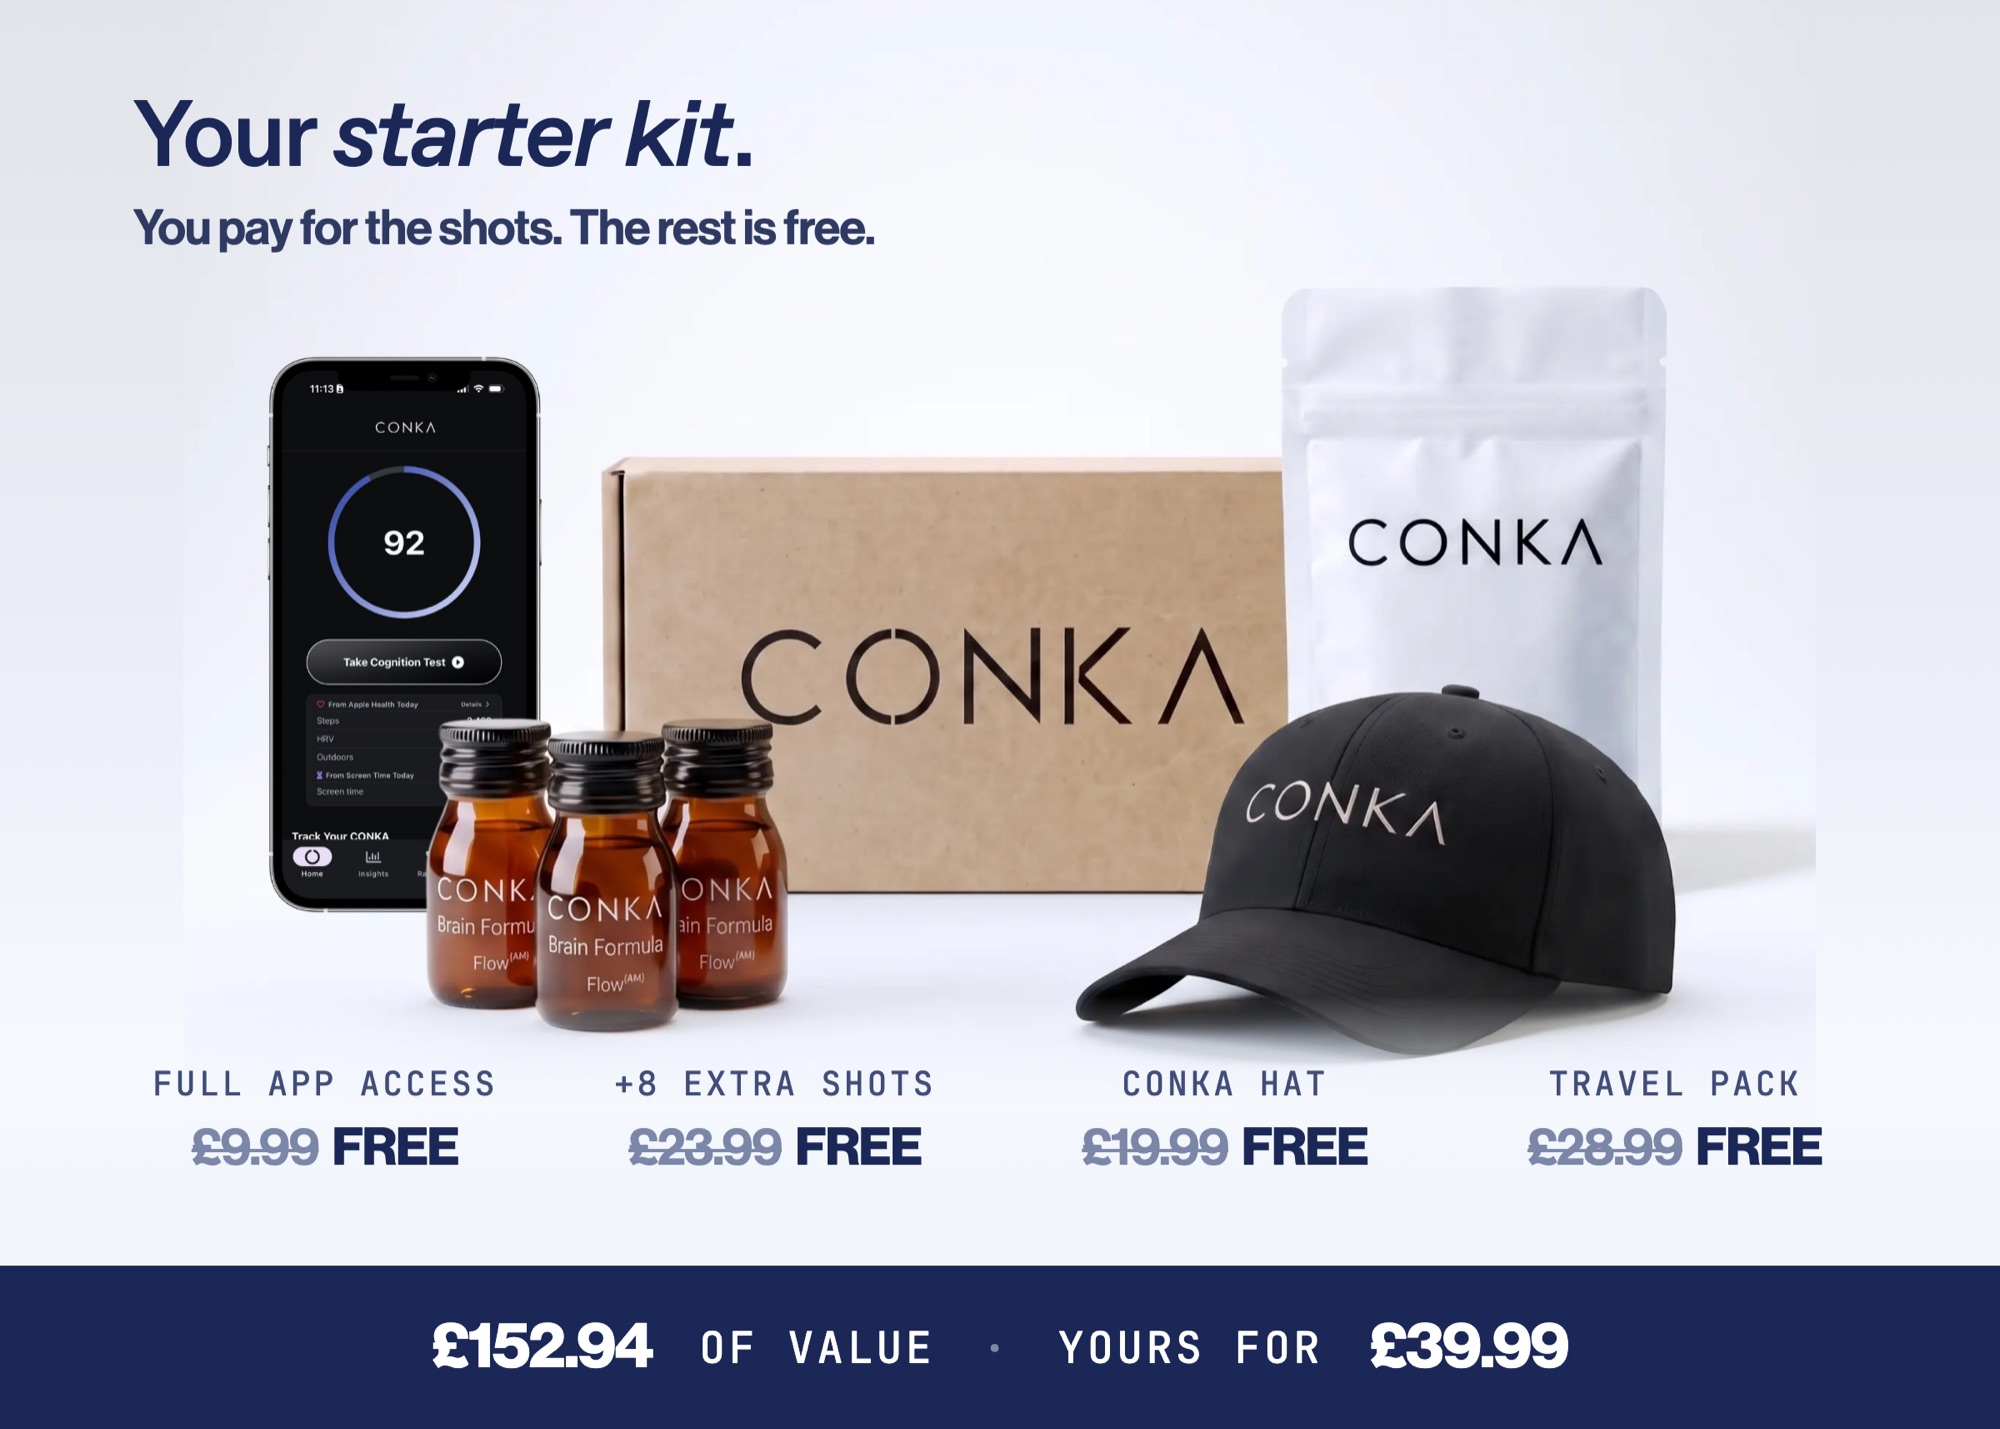
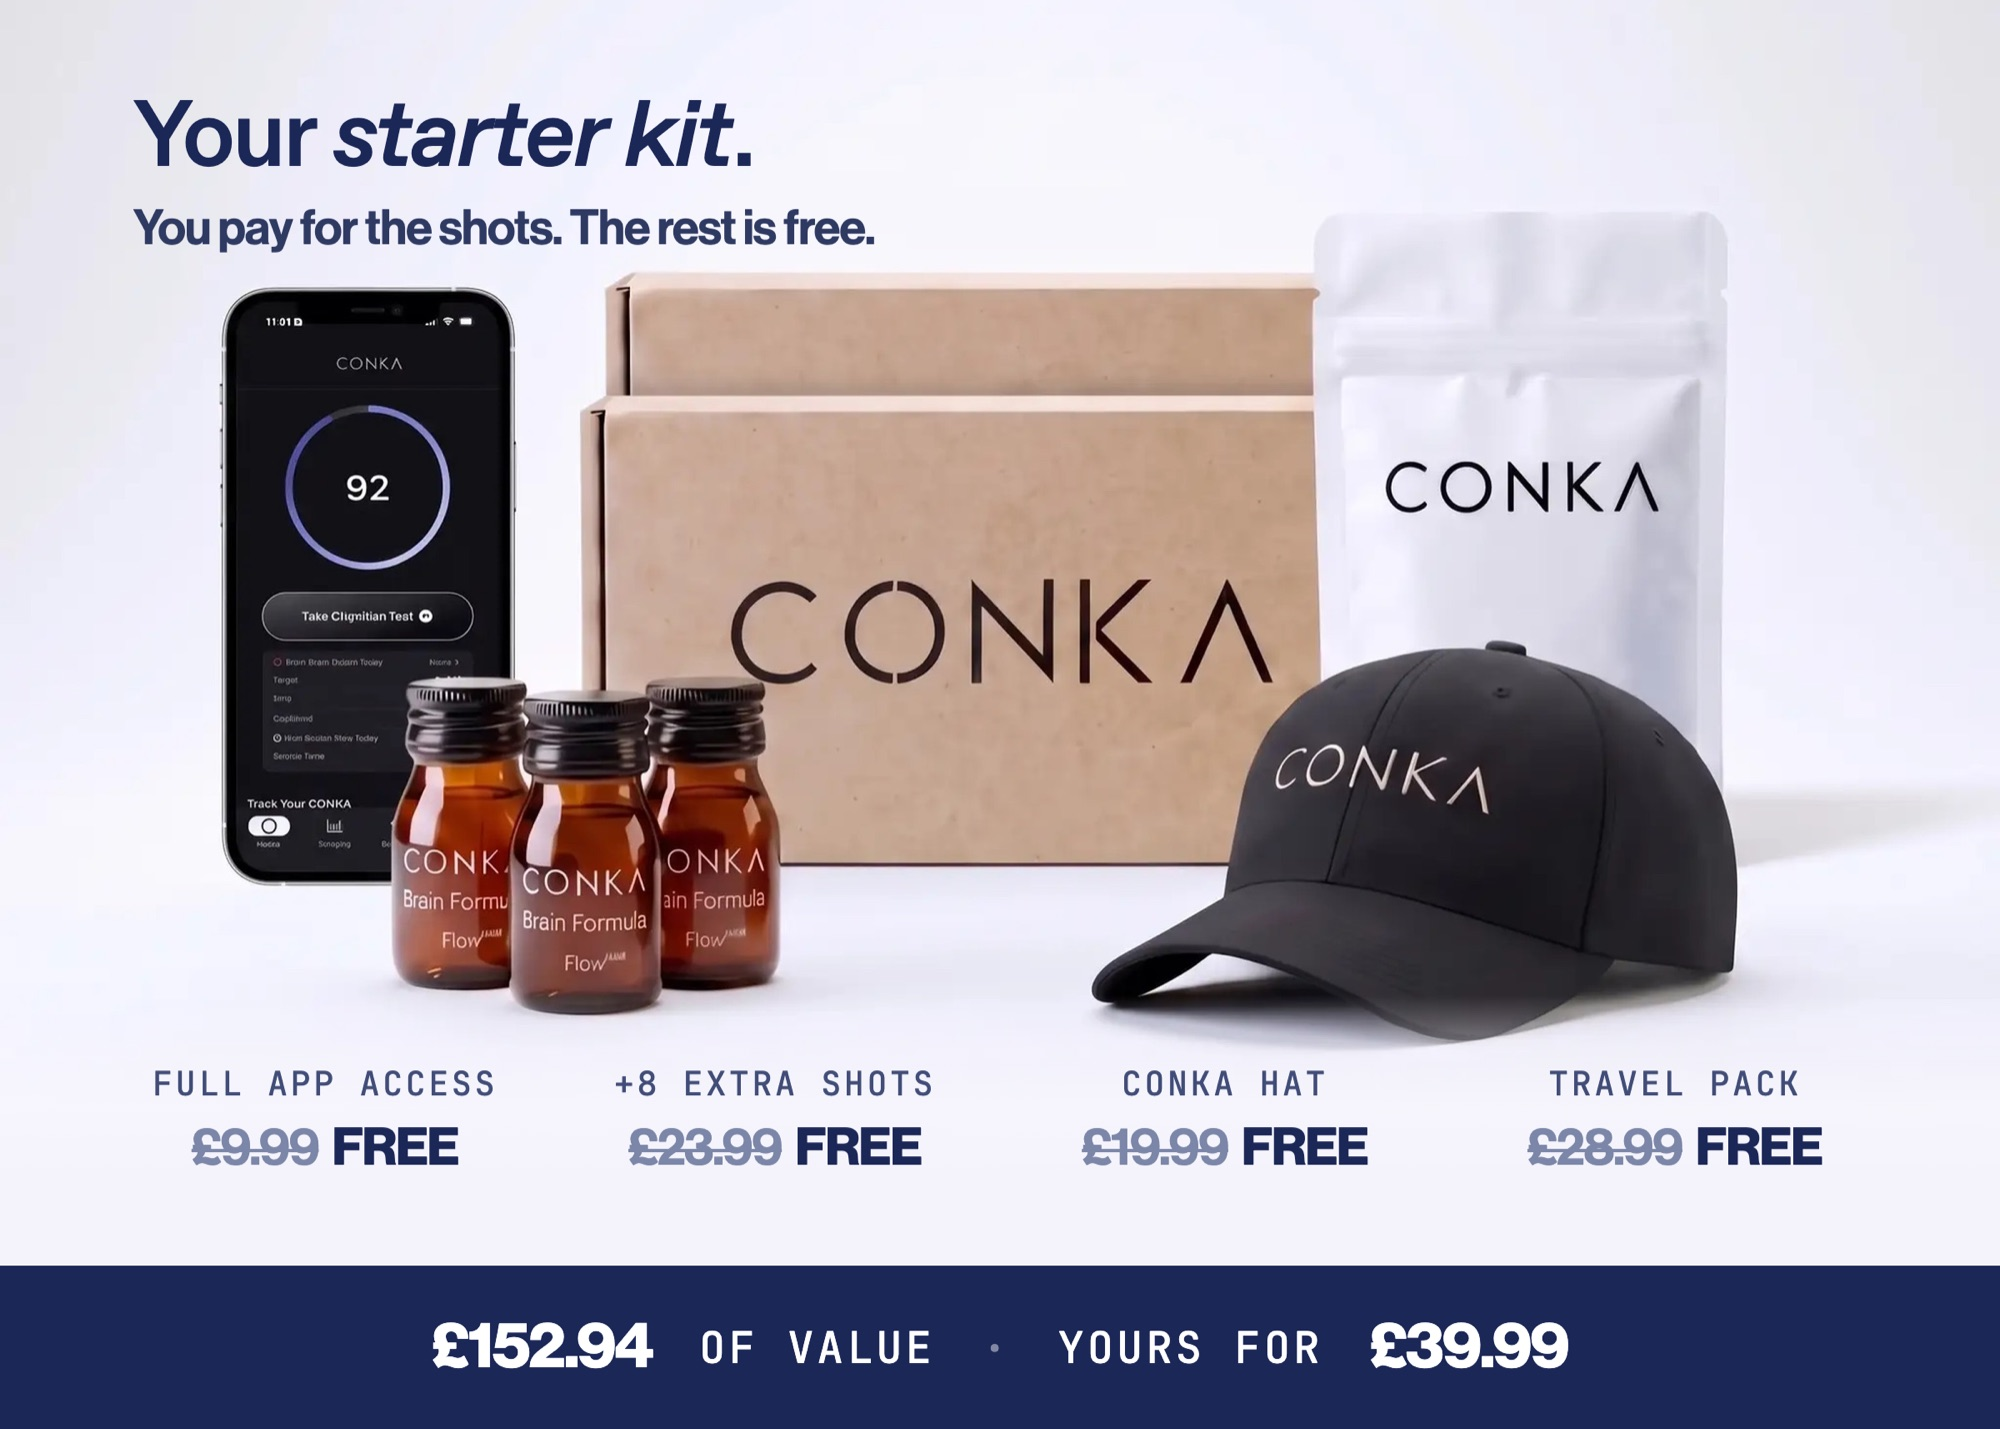
feat: rebuild the Flow starter kit on the new pack shot
The previous base had a cropped cast shadow, which is what made it read as
clip art rather than photography, and its backdrop tone drifted enough that
the letterbox at the sides never quite disappeared.

The new shot is 2000x2000. Rather than fit a square into a 7:5 frame and
colour-match the gaps, it is cropped to the 2400x1380 band around the products
(rows 470-1620). That fills the frame width outright, so there are no side
gaps at all, the shadow stays whole, and the products sit noticeably larger.

Clear still uses the older treatment. A matching Clear shot would fix both
that and the Flow-labelled-bottles fault in one pass.

Claude-Session: https://claude.ai/code/session_01AEGTL4LFRjcKoyGBkYzduk

Changed region(s): [[0.093, 0.1847, 0.93, 0.7698], [0.744, 0.154, 0.775, 0.2155]]

diff --git a/design/pdp-slides/slides/s0q.html b/design/pdp-slides/slides/s0q.html
@@ -1,14 +1,14 @@
 <!doctype html><meta charset="utf-8"><title>S0Q Starter Kit (Quarterly)</title>
 <link rel="stylesheet" href="_base.css">
 <style>
-.slide{padding:0;background:linear-gradient(to bottom,#e3e4e9 0%,#e6e9f0 25%,#eceff8 50%,#f6f9fd 75%,#eef1fe 100%)}
+.slide{padding:0;background:linear-gradient(to bottom,#e2e1e6 0%,#e7e5ef 25%,#ebeaf6 50%,#f7f6fd 75%,#f1f1fc 100%)}
 
-.bg{position:absolute;inset:0;z-index:0;background-image:url("../assets/FlowStartPackClean.jpg");
-  background-size:auto 1400px;background-repeat:no-repeat;background-position:center top}
+.bg{position:absolute;inset:0;z-index:0;background-image:url("../assets/FlowStartPackV2.jpg");
+  background-size:2400px auto;background-repeat:no-repeat;background-position:center top}
 /* fades the shot into the label band without a hard edge */
 .fade{position:absolute;left:0;right:0;bottom:0;height:520px;z-index:1;
-  background:linear-gradient(to bottom, rgba(246,249,253,0) 0%, rgba(246,249,253,.9) 26%,
-    #f2f5fb 42%, #f2f5fb 100%)}
+  background:linear-gradient(to bottom, rgba(247,246,253,0) 0%, rgba(247,246,253,.9) 26%,
+    #f4f3fb 42%, #f4f3fb 100%)}
 
 h1{font-family:Favorit;font-weight:500;font-size:112px;line-height:1;letter-spacing:-.03em;
   padding:104px 0 0 160px;position:relative;z-index:3}

diff --git a/design/pdp-slides/slides/s0.html b/design/pdp-slides/slides/s0.html
@@ -1,14 +1,14 @@
 <!doctype html><meta charset="utf-8"><title>S0 Starter Kit</title>
 <link rel="stylesheet" href="_base.css">
 <style>
-.slide{padding:0;background:linear-gradient(to bottom,#e3e4e9 0%,#e6e9f0 25%,#eceff8 50%,#f6f9fd 75%,#eef1fe 100%)}
+.slide{padding:0;background:linear-gradient(to bottom,#e2e1e6 0%,#e7e5ef 25%,#ebeaf6 50%,#f7f6fd 75%,#f1f1fc 100%)}
 
-.bg{position:absolute;inset:0;z-index:0;background-image:url("../assets/FlowStartPackClean.jpg");
-  background-size:auto 1400px;background-repeat:no-repeat;background-position:center top}
+.bg{position:absolute;inset:0;z-index:0;background-image:url("../assets/FlowStartPackV2.jpg");
+  background-size:2400px auto;background-repeat:no-repeat;background-position:center top}
 /* fades the shot into the label band without a hard edge */
 .fade{position:absolute;left:0;right:0;bottom:0;height:520px;z-index:1;
-  background:linear-gradient(to bottom, rgba(246,249,253,0) 0%, rgba(246,249,253,.9) 26%,
-    #f2f5fb 42%, #f2f5fb 100%)}
+  background:linear-gradient(to bottom, rgba(247,246,253,0) 0%, rgba(247,246,253,.9) 26%,
+    #f4f3fb 42%, #f4f3fb 100%)}
 
 h1{font-family:Favorit;font-weight:500;font-size:112px;line-height:1;letter-spacing:-.03em;
   padding:104px 0 0 160px;position:relative;z-index:3}

diff --git a/design/pdp-slides/README.md b/design/pdp-slides/README.md
@@ -50,6 +50,11 @@ and `c0q` carry the same figures as `s0` / `s0q` and differ only in photograph.
 same arrangement the Figma frames use, where monthly and quarterly point at a
 single image hash with different labels composited on top.
 
+Flow's pack shot is `FlowStartPackV2.jpg`, cropped from a 2000x2000 square to
+the 2400x1380 band around the products (rows 470-1620 of the source). Cropping
+rather than letterboxing means it fills the frame width, so there are no side
+gaps to colour-match, and the cast shadow stays intact instead of being cut.
+
 ## Constraints that shaped these
 
 - **Authored at 2400×1715 (7:5)**, the aspect `ProductImageSlideshow` renders.
@@ -84,6 +89,12 @@ contradicts the rule in
 `docs/development/featurePlans/flow-starter-pack.md` that prices live in HTML,
 though the artwork it replaced broke it too. If any figure changes, edit the
 relevant slide and re-run `render.sh`.
+
+## Clear's pack photo is a generation behind
+
+Flow uses `FlowStartPackV2.jpg`; Clear is still on `ClearStartPackClean.jpg`,
+which is the older treatment. A Clear shot matching the Flow V2 setup would fix
+both the label fault below and the treatment mismatch in one go.
 
 ## Known fault in the Clear pack photo
 
